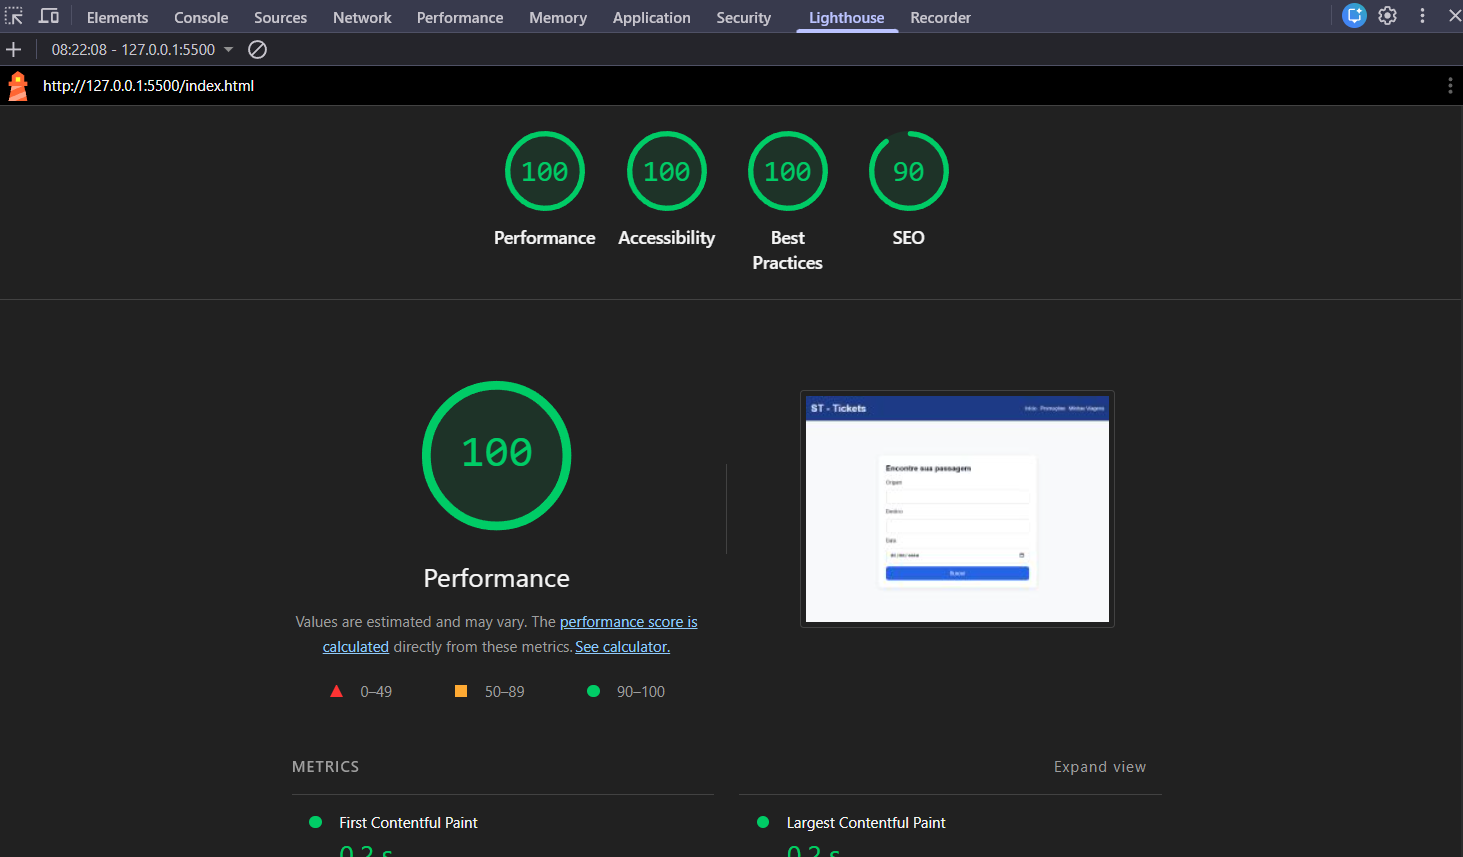
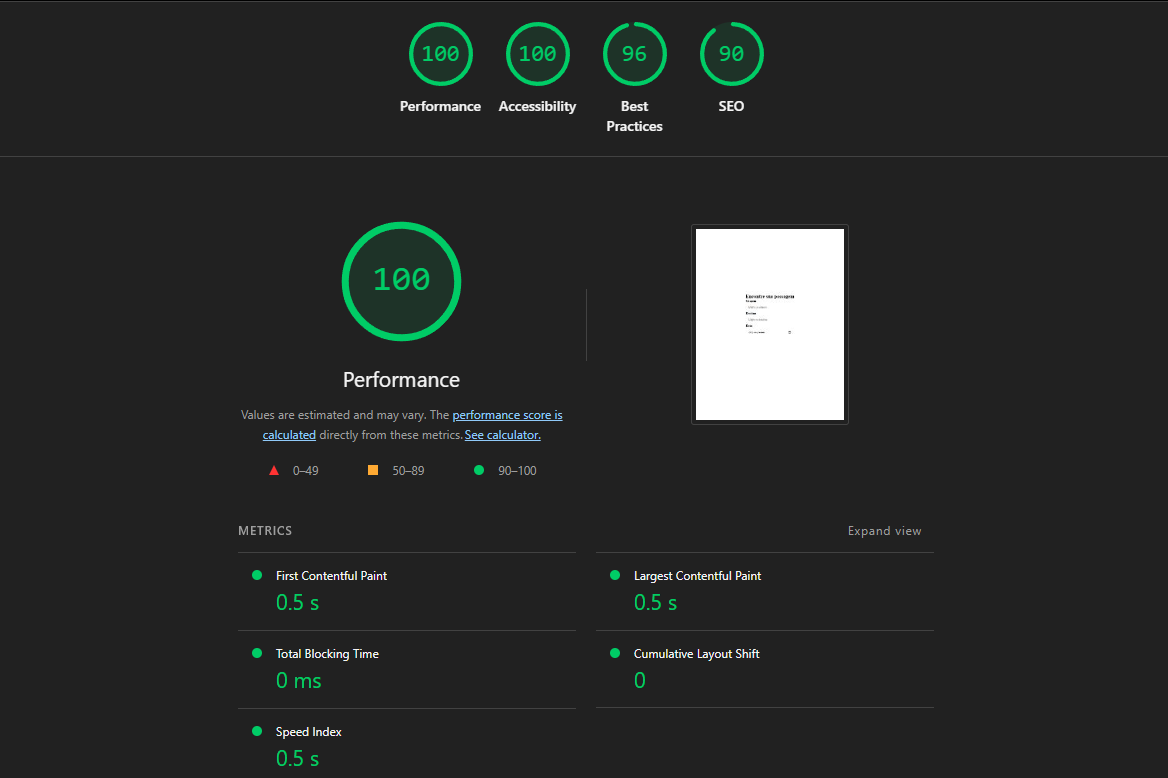
COMMIT ATT - 21-05-26

diff --git a/index.html b/index.html
@@ -2,42 +2,64 @@
 <html lang="pt-BR">
 
 <head>
-  <meta charset="UTF-8">
-  <meta name="viewport" content="width=device-width, initial-scale=1.0">
+  <meta charset="UTF-8" />
+
+  <meta name="viewport" content="width=device-width, initial-scale=1.0" />
+
   <title>SliferTickets</title>
-  <link rel="stylesheet" href="style.css">
+
+  <link rel="preconnect" href="https://fonts.googleapis.com" />
+
+  <link rel="preconnect" href="https://fonts.gstatic.com" crossorigin />
+
+  <link
+    href="https://fonts.googleapis.com/css2?family=Inter:wght@400;500;600;700&family=Poppins:wght@600;700&display=swap"
+    rel="stylesheet" />
+
+  <link rel="stylesheet" href="./assets/css/style.css" />
 </head>
 
 <body>
+
   <header>
-    <h1>ST - Tickets</h1>
+    <h1>ST Tickets</h1>
 
     <nav aria-label="Menu principal">
       <ul>
         <li><a href="#">Início</a></li>
         <li><a href="#">Promoções</a></li>
-        <li><a href="#">Minhas Viagens</a></li>
+        <li><a href="#">Viagens</a></li>
       </ul>
     </nav>
   </header>
 
   <main>
-    <section class="busca">
+
+    <section class="pesquisa">
+
       <h2>Encontre sua passagem</h2>
 
-      <form>
+      <form id="ticket-form">
+
         <label for="origem">Origem</label>
-        <input type="text" id="origem" required>
+        <input type="text" id="origem" placeholder="Digite a origem" required />
 
         <label for="destino">Destino</label>
-        <input type="text" id="destino" required>
+        <input type="text" id="destino" placeholder="Digite o destino" required />
 
         <label for="data">Data</label>
-        <input type="date" id="data" required>
+        <input type="date" id="data" required />
 
-        <button type="submit">Buscar</button>
+        <button type="submit"> Buscar passagens </button>
+
       </form>
+
     </section>
+
   </main>
+
+  <script type="module" src="./assets/js/main.js"></script>
+
 </body>
+
 </html>

diff --git a/assets/css/base/variaveis.css b/assets/css/base/variaveis.css
@@ -1,0 +1,33 @@
+:root {
+  --color-primary: #1e3a8a;
+  --color-primary-light: #2563eb;
+
+  --color-background: #f8fafc;
+  --color-surface: #ffffff;
+
+  --color-text: #111827;
+  --color-text-light: #6b7280;
+
+  --color-border: #d1d5db;
+
+  --font-primary: "Inter", sans-serif;
+  --font-title: "Poppins", sans-serif;
+
+  --fs-sm: 0.875rem;
+  --fs-md: 1rem;
+  --fs-lg: 1.5rem;
+  --fs-xl: 2rem;
+
+  --spacing-xs: 0.5rem;
+  --spacing-sm: 0.75rem;
+  --spacing-md: 1rem;
+  --spacing-lg: 1.5rem;
+  --spacing-xl: 2rem;
+
+  --radius-sm: 0.5rem;
+  --radius-md: 0.75rem;
+
+  --shadow-md: 0 4px 20px rgba(0, 0, 0, 0.08);
+
+  --transition-default: 0.3s ease;
+}

diff --git a/assets/css/layout/header.css b/assets/css/layout/header.css
@@ -1,0 +1,31 @@
+header {
+  background: var(--color-primary);
+  color: white;
+
+  padding: var(--spacing-md);
+
+  display: flex;
+  justify-content: space-between;
+  align-items: center;
+
+  flex-wrap: wrap;
+  gap: var(--spacing-md);
+}
+
+header h1 {
+  font-size: var(--fs-lg);
+}
+
+nav ul {
+  display: flex;
+  gap: var(--spacing-md);
+}
+
+nav a {
+  color: white;
+  transition: var(--transition-default);
+}
+
+nav a:hover {
+  opacity: 0.8;
+}

diff --git a/assets/css/components/form.css b/assets/css/components/form.css
@@ -1,0 +1,26 @@
+form {
+  display: flex;
+  flex-direction: column;
+  gap: var(--spacing-md);
+}
+
+label {
+  font-size: var(--fs-sm);
+  font-weight: 600;
+}
+
+input {
+  padding: 0.9rem;
+
+  border: 1px solid var(--color-border);
+
+  border-radius: var(--radius-sm);
+
+  outline: none;
+
+  transition: var(--transition-default);
+}
+
+input:focus {
+  border-color: var(--color-primary-light);
+}

diff --git a/assets/css/components/button.css b/assets/css/components/button.css
@@ -1,0 +1,21 @@
+button {
+  border: none;
+
+  padding: 1rem;
+
+  border-radius: var(--radius-sm);
+
+  background: var(--color-primary-light);
+
+  color: white;
+
+  font-weight: 600;
+
+  cursor: pointer;
+
+  transition: var(--transition-default);
+}
+
+button:hover {
+  transform: translateY(-2px);
+}

diff --git a/assets/js/modules/form.js b/assets/js/modules/form.js
@@ -1,0 +1,21 @@
+export function initForm() {
+
+  const form = document.querySelector("#ticket-form");
+
+  form.addEventListener("submit", (event) => {
+
+    event.preventDefault();
+
+    const origem = document.querySelector("#origem").value;
+    const destino = document.querySelector("#destino").value;
+    const data = document.querySelector("#data").value;
+
+    console.log({
+      origem,
+      destino,
+      data
+    });
+
+    alert("Busca realizada com sucesso!");
+  });
+}

diff --git a/assets/css/base/geral.css b/assets/css/base/geral.css
@@ -1,0 +1,17 @@
+body {
+  min-height: 100vh;
+  background: var(--color-background);
+}
+
+a {
+  text-decoration: none;
+}
+
+ul {
+  list-style: none;
+}
+
+img {
+  max-width: 100%;
+  display: block;
+}

diff --git a/assets/css/base/tipografia.css b/assets/css/base/tipografia.css
@@ -1,0 +1,13 @@
+body {
+  font-family: var(--font-primary);
+  font-size: var(--fs-md);
+  color: var(--color-text);
+  line-height: 1.5;
+}
+
+h1,
+h2,
+h3 {
+  font-family: var(--font-title);
+  font-weight: 700;
+}

diff --git a/assets/css/style.css b/assets/css/style.css
@@ -1,0 +1,11 @@
+@import url("./base/reset.css");
+@import url("./base/variables.css");
+@import url("./base/typography.css");
+@import url("./base/global.css");
+
+@import url("./layout/header.css");
+@import url("./layout/main.css");
+
+@import url("./components/card.css");
+@import url("./components/form.css");
+@import url("./components/button.css");

diff --git a/assets/css/layout/main.css b/assets/css/layout/main.css
@@ -1,0 +1,8 @@
+main {
+  min-height: calc(100vh - 80px);
+
+  display: grid;
+  place-items: center;
+
+  padding: var(--spacing-xl);
+}

diff --git a/assets/css/layout/pesquisa.css b/assets/css/layout/pesquisa.css
@@ -1,0 +1,8 @@
+.pesquisa {
+    width: 100%;
+    max-width: 500px;
+    background: var(--color-surface);
+    padding: var(--spacing-xl);
+    border-radius: var(--radius-md);
+    box-shadow: var(--shadow-md);
+}

diff --git a/assets/css/base/reset.css b/assets/css/base/reset.css
@@ -1,0 +1,7 @@
+*,
+*::before,
+*::after {
+  margin: 0;
+  padding: 0;
+  box-sizing: border-box;
+}